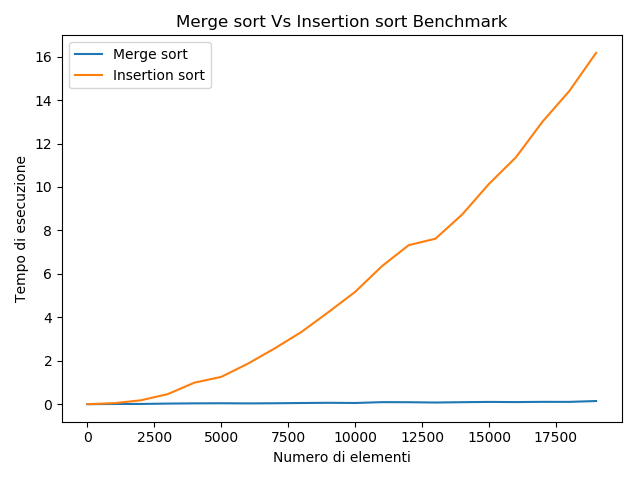
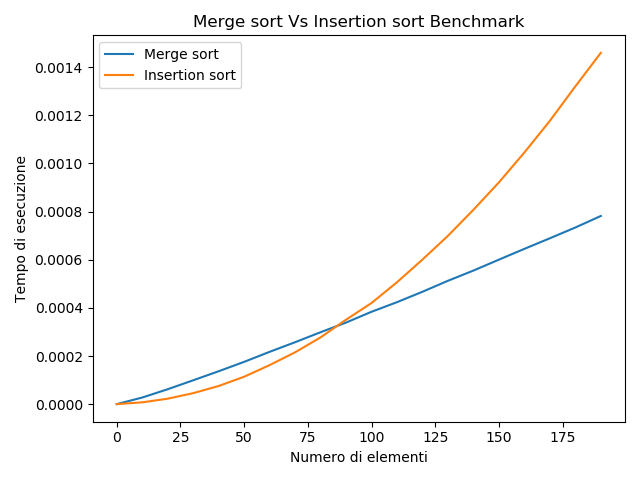
Codice ridisegnato (in esecuzione)

diff --git a/InsertionVsMergeBenchmark.py b/InsertionVsMergeBenchmark.py
@@ -3,14 +3,17 @@ import math
 from timeit import default_timer as timer
 import numpy as np
 import matplotlib.pyplot as plt
+import statistics
 
-timeLimit = 1000 # Tempo Limite
+timeLimit = 100 # Tempo Limite
+
 #  Insertion Sort  #
+
 def Insertion_sort(A):
  start = timer()
  for i in range(1, len(A)):
   if timer()-start > timeLimit:
-     print("Tempo Limite Superato")
+     print("ERRORE: Tempo Limite Superato")
      return timeLimit
   else:
      key = A[i]
@@ -20,16 +23,15 @@ def Insertion_sort(A):
         j = j-1
      A[j+1] = key
  end = timer()
- print(end-start)
  return end-start
 
 #   Merge Sort   #
 
-def Merge_sort(A, p, r):
+def MergeSort(A, p, r):
     if p < r :
         q = (p+r) // 2
-        Merge_sort(A, p, q)
-        Merge_sort(A, q+1, r)
+        MergeSort(A, p, q)
+        MergeSort(A, q+1, r)
         Merge(A, p, q, r)
 
 def Merge(A,p,q,r):
@@ -53,43 +55,53 @@ def Merge(A,p,q,r):
             A[k] = R[j]
             j = j + 1
 
-#  Creo vettori random di numeri  #
+#  Creo vettore random di B numeri  #
+
 def random_vect(B):
     A=[]
-    random.seed(2)
     for i in range(B):
       A.append(random.randint(0, 10000)) #TODO random.seed
     return A
 
 #  dimensione del vettore dei numeri da ordinare
 
+def MergeSortMask(A, p, r):
+    start = timer()
+    MergeSort(A,p,r)
+    end = timer()
+    return end-start
 
+
+####################################### SIMULAZIONE #####################################
+
+# Creazione di vettori random con passo "step"
+
+step = 5000
 numbervect = []
-for i in range(20):
-    numbervect.append(i)
+for i in range(10):
+    numbervect.append(i*step)
+
 insertionSortGraph = []
 mergeSortGraph = []
 
 
 for j in numbervect:
 
-  print("_____ Numeri da ordinare: ", j, "_____")
-  A = random_vect(j)
-  B = A.copy()
+  print("####### Numeri da ordinare: ", j, "#######")
 
-  #    Esecuzione Insertion Sort
-
-  print("Tempo Insertion Sort")
-  insertionSortGraph.append(Insertion_sort(A))
-
-  #   Esecuzione Merge Sort   (timer messo fuori per comodita')
-
-  start = timer()
-  Merge_sort(B, 0, len(B)-1)
-  end = timer()
-  mergeSortGraph.append(end-start)
-
-  print("Tempo Merge Sort", "\n", end - start, "\n", "_____Ordinamento terminato_____", "\n")
+  RI = [] # Repeated Insertion
+  RM = [] # Repeated Merge
+  for z in range(1,2):   #Indico come secondo numero il numero di volte che viene ripetuto l'esperimento
+        A = random_vect(j)
+        B = A.copy()
+        RI.append(Insertion_sort(A))
+        RM.append(MergeSortMask(B, 0, len(B) - 1))
+  I1=(statistics.mean(RI))
+  I2=(statistics.mean(RM))
+  print("Tempo Insertion Sort: ", I1)
+  print("Tempo Merge Sort: ", I2)
+  insertionSortGraph.append(I1)
+  mergeSortGraph.append(I2)
 
 #         Plot GUI
 
@@ -105,3 +117,4 @@ plt.legend(['Merge sort', 'Insertion sort'])
 plt.show()
 
 
+#TODO aggiungere parametri stabili di confronto
